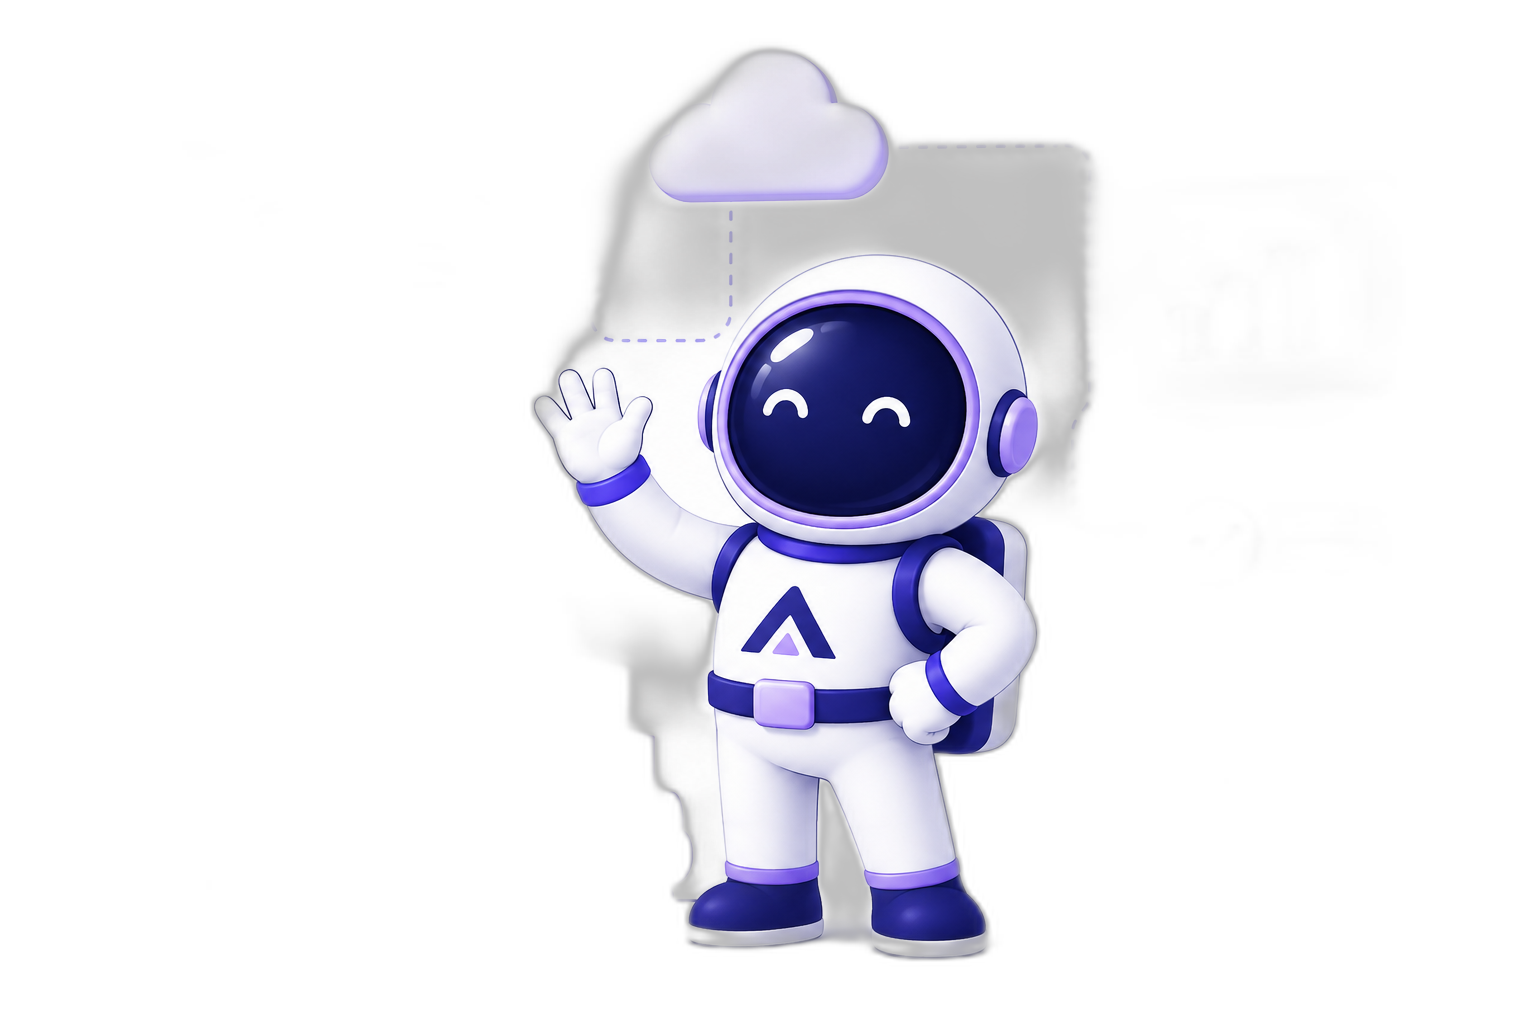
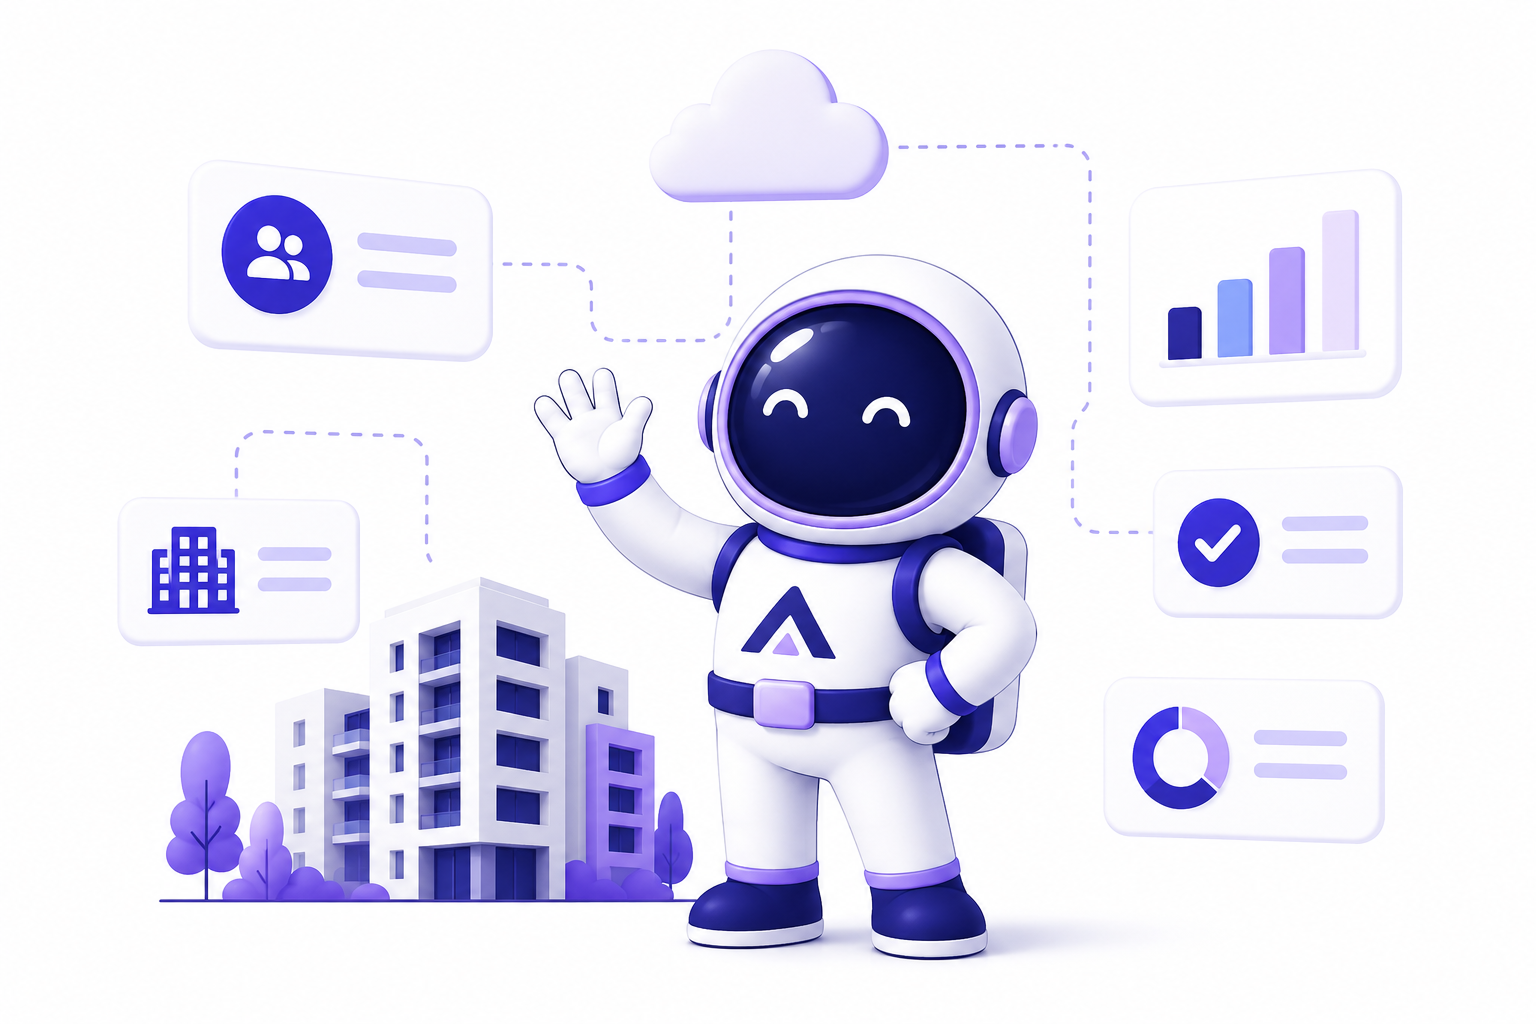
Changes

diff --git a/.lovable/plan.md b/.lovable/plan.md
@@ -1,34 +1,56 @@
 ## Plan
 
-**1. Hero — nueva imagen del astronauta (paleta morado/azul)**
-- Copiar `user-uploads://image-51.png` → `src/assets/hero-astronaut.png` (sobrescribe la actual).
-- Remover fondo con `rembg` para que fluya sobre el fondo de la landing, conservando astronauta + edificio + nube + tarjetas flotantes.
+### 1. Restaurar imagen del hero tal cual
+- Copiar `user-uploads://image-51.png` → `src/assets/hero-astronaut.png` (sobrescribir). Sin remover fondo, sin editar — la imagen exacta que subiste, ya que su propio fondo blanco se funde con el fondo blanco de la landing.
 
-**2. Aplicar nuevo brand kit Altura Cloud v1.0 globalmente**
+### 2. Reparar `LandingPage.tsx` usando TODOS los colores del brand kit
 
-Paleta (reemplazos hex via find-and-replace en todo `src/`):
-- `#2D3748` (slate actual primario) → `#4F46E5` (Royal Blue / Primario)
-- `#1F2937` (secundario actual) → `#4338CA` (Deep Indigo)
-- `#64748B` (terciario) → `#475569` (Text Secondary) — coincide igual, mantener
-- `#D97757` (terracotta) → `#8B5CF6` (Neutral morado / acento)
-- `#E8916F` → `#7AA2FF` (Cornflower Blue)
-- `#B85A3E` → `#4338CA` (Deep Indigo, hover oscuro)
-- `#F8F7F5` (crema fondo) → `#F1F5F9` (Surface)
-- Fondo página → `#FFFFFF`
-- Texto principal → `#0F172A` (Text Primary)
-- Bordes → `#E2E8F0` (Border)
-- Estados: success `#16A34A`, info `#3B82F6`, warning `#F59E0B`, error `#EF4444`
+Voy a hacer un pase manual (no más find-and-replace ciegos) reasignando cada uso de `#4F46E5` que actualmente está roto a su token correcto del kit:
 
-**3. Tipografía**
-- Headings: Poppins (SemiBold/Bold/ExtraBold)
-- Body: Inter (Regular/Medium/SemiBold)
-- Agregar `@import` de Google Fonts en `src/styles.css` y definir variables `--font-heading` / `--font-body`.
-- Aplicar a `body` y a clases de heading (h1-h6).
+**Paleta usada:**
+- `#4F46E5` Royal Blue — botón primario, links, acento
+- `#4338CA` Deep Indigo — hover de primario, headings con contraste, stats band
+- `#7AA2FF` Cornflower Blue — acentos suaves, hover suave
+- `#E9E2FF` Lavender Mist — fondos de chips/badges/iconos, labels sobre indigo oscuro
+- `#0F172A` Text Primary — headings y texto principal
+- `#475569` Text Secondary — descripciones, navegación
+- `#E2E8F0` Border — divisores
+- `#F1F5F9` Surface — fondos de cards
+- Estado: `#16A34A` success, `#3B82F6` info, `#F59E0B` warning, `#EF4444` error, `#8B5CF6` neutral
 
-**4. Tokens en `src/styles.css`**
-- Actualizar variables `oklch`/`hex` del design system (`--primary`, `--secondary`, `--accent`, `--background`, `--foreground`, `--muted`, `--border`) para que shadcn use la nueva paleta.
+**Fixes específicos:**
 
-**5. Hero (landing)**
-- Mantener layout limpio (sin máscara radial, sin logos flotantes que añadimos antes), botón primario Royal Blue con texto blanco, botón secundario outline indigo.
+a) **Texto base**: `text-[#4F46E5]` en el `<div>` raíz (línea 63) → `text-[#0F172A]`.
 
-No tocar lógica de negocio — solo imagen, colores, tipografía y tokens.
+b) **Nav**: links del nav → `text-[#475569]`, hover `hover:text-[#4F46E5]`. Brand "Altura Cloud" → `text-[#0F172A]`.
+
+c) **Botones primarios** (líneas 82, 120, 144, 316): `bg-[#4F46E5] text-[#4F46E5]` → `bg-[#4F46E5] text-white` con `hover:bg-[#4338CA]`.
+
+d) **Botón "Cerrar sesión" / dropdown items**: textos → `text-[#0F172A]`, subtítulos → `text-[#475569]`, hover fondo → `hover:bg-[#E9E2FF]`.
+
+e) **Hero**:
+   - Badge "Hecho en Honduras": `bg-[#E9E2FF] text-[#4338CA]`.
+   - H1: `text-[#0F172A]`.
+   - Párrafo: `text-[#475569]`.
+   - Botón secundario "Ver planes": border `#E2E8F0`, text `#0F172A`, hover border `#4F46E5`.
+   - Check de "Sin tarjeta": `text-[#16A34A]`.
+
+f) **Stats band** (línea 175): `bg-[#4338CA] text-white`. Números blancos. Labels → `text-[#E9E2FF]` (visibles).
+
+g) **Cards de funciones** (líneas 203-212): variar `iconBg` con los colores de estado del kit (`#4F46E5`, `#7AA2FF`, `#8B5CF6`, `#16A34A`, `#3B82F6`, `#F59E0B`, `#EF4444`, `#4338CA`, `#7AA2FF`) — ya casi están. Título → `text-[#0F172A]`. Descripción → `text-[#475569]`. Link "Ver X" → `text-[#4F46E5]`.
+
+h) **Sección "How it works"**: H2 → `text-[#0F172A]`. Círculos numerados: `bg-[#4F46E5] text-white`. Títulos pasos → `text-[#0F172A]`.
+
+i) **"¿Por qué Altura Cloud?"** (caja indigo, línea 267): `bg-[#4338CA]`. Iconos `text-[#7AA2FF]`. Títulos `text-white`. Descripciones `text-[#E9E2FF]/80`. Subtítulo bajo H2 → `text-[#E9E2FF]`.
+
+j) **Planes** (línea 296+): H2 → `text-[#0F172A]`. Plan destacado: `bg-[#4338CA] text-white`, sub `text-[#E9E2FF]`, botón blanco con `text-[#4338CA]`. Planes no destacados: `bg-[#F1F5F9]`, título `text-[#0F172A]`, botón `bg-[#4F46E5] text-white`. Badge "Más popular": `bg-[#E9E2FF] text-[#4338CA]`. Checks de features: `text-[#16A34A]`.
+
+k) **FAQ y footer** (resto del archivo): mismo criterio — headings `#0F172A`, body `#475569`, acentos `#4F46E5`.
+
+l) Quitar emojis dentro del párrafo del hero (💰🔑👥🔧🏘) — quedan fuera del lenguaje visual del astronauta moderno. Reemplazar por texto limpio.
+
+### 3. No tocar
+- `styles.css` (ya quedó bien con los tokens v1.0).
+- Otros archivos fuera de la landing.
+
+Resultado: landing legible, contrastada, usando 7-8 colores del kit en lugar de 2.
